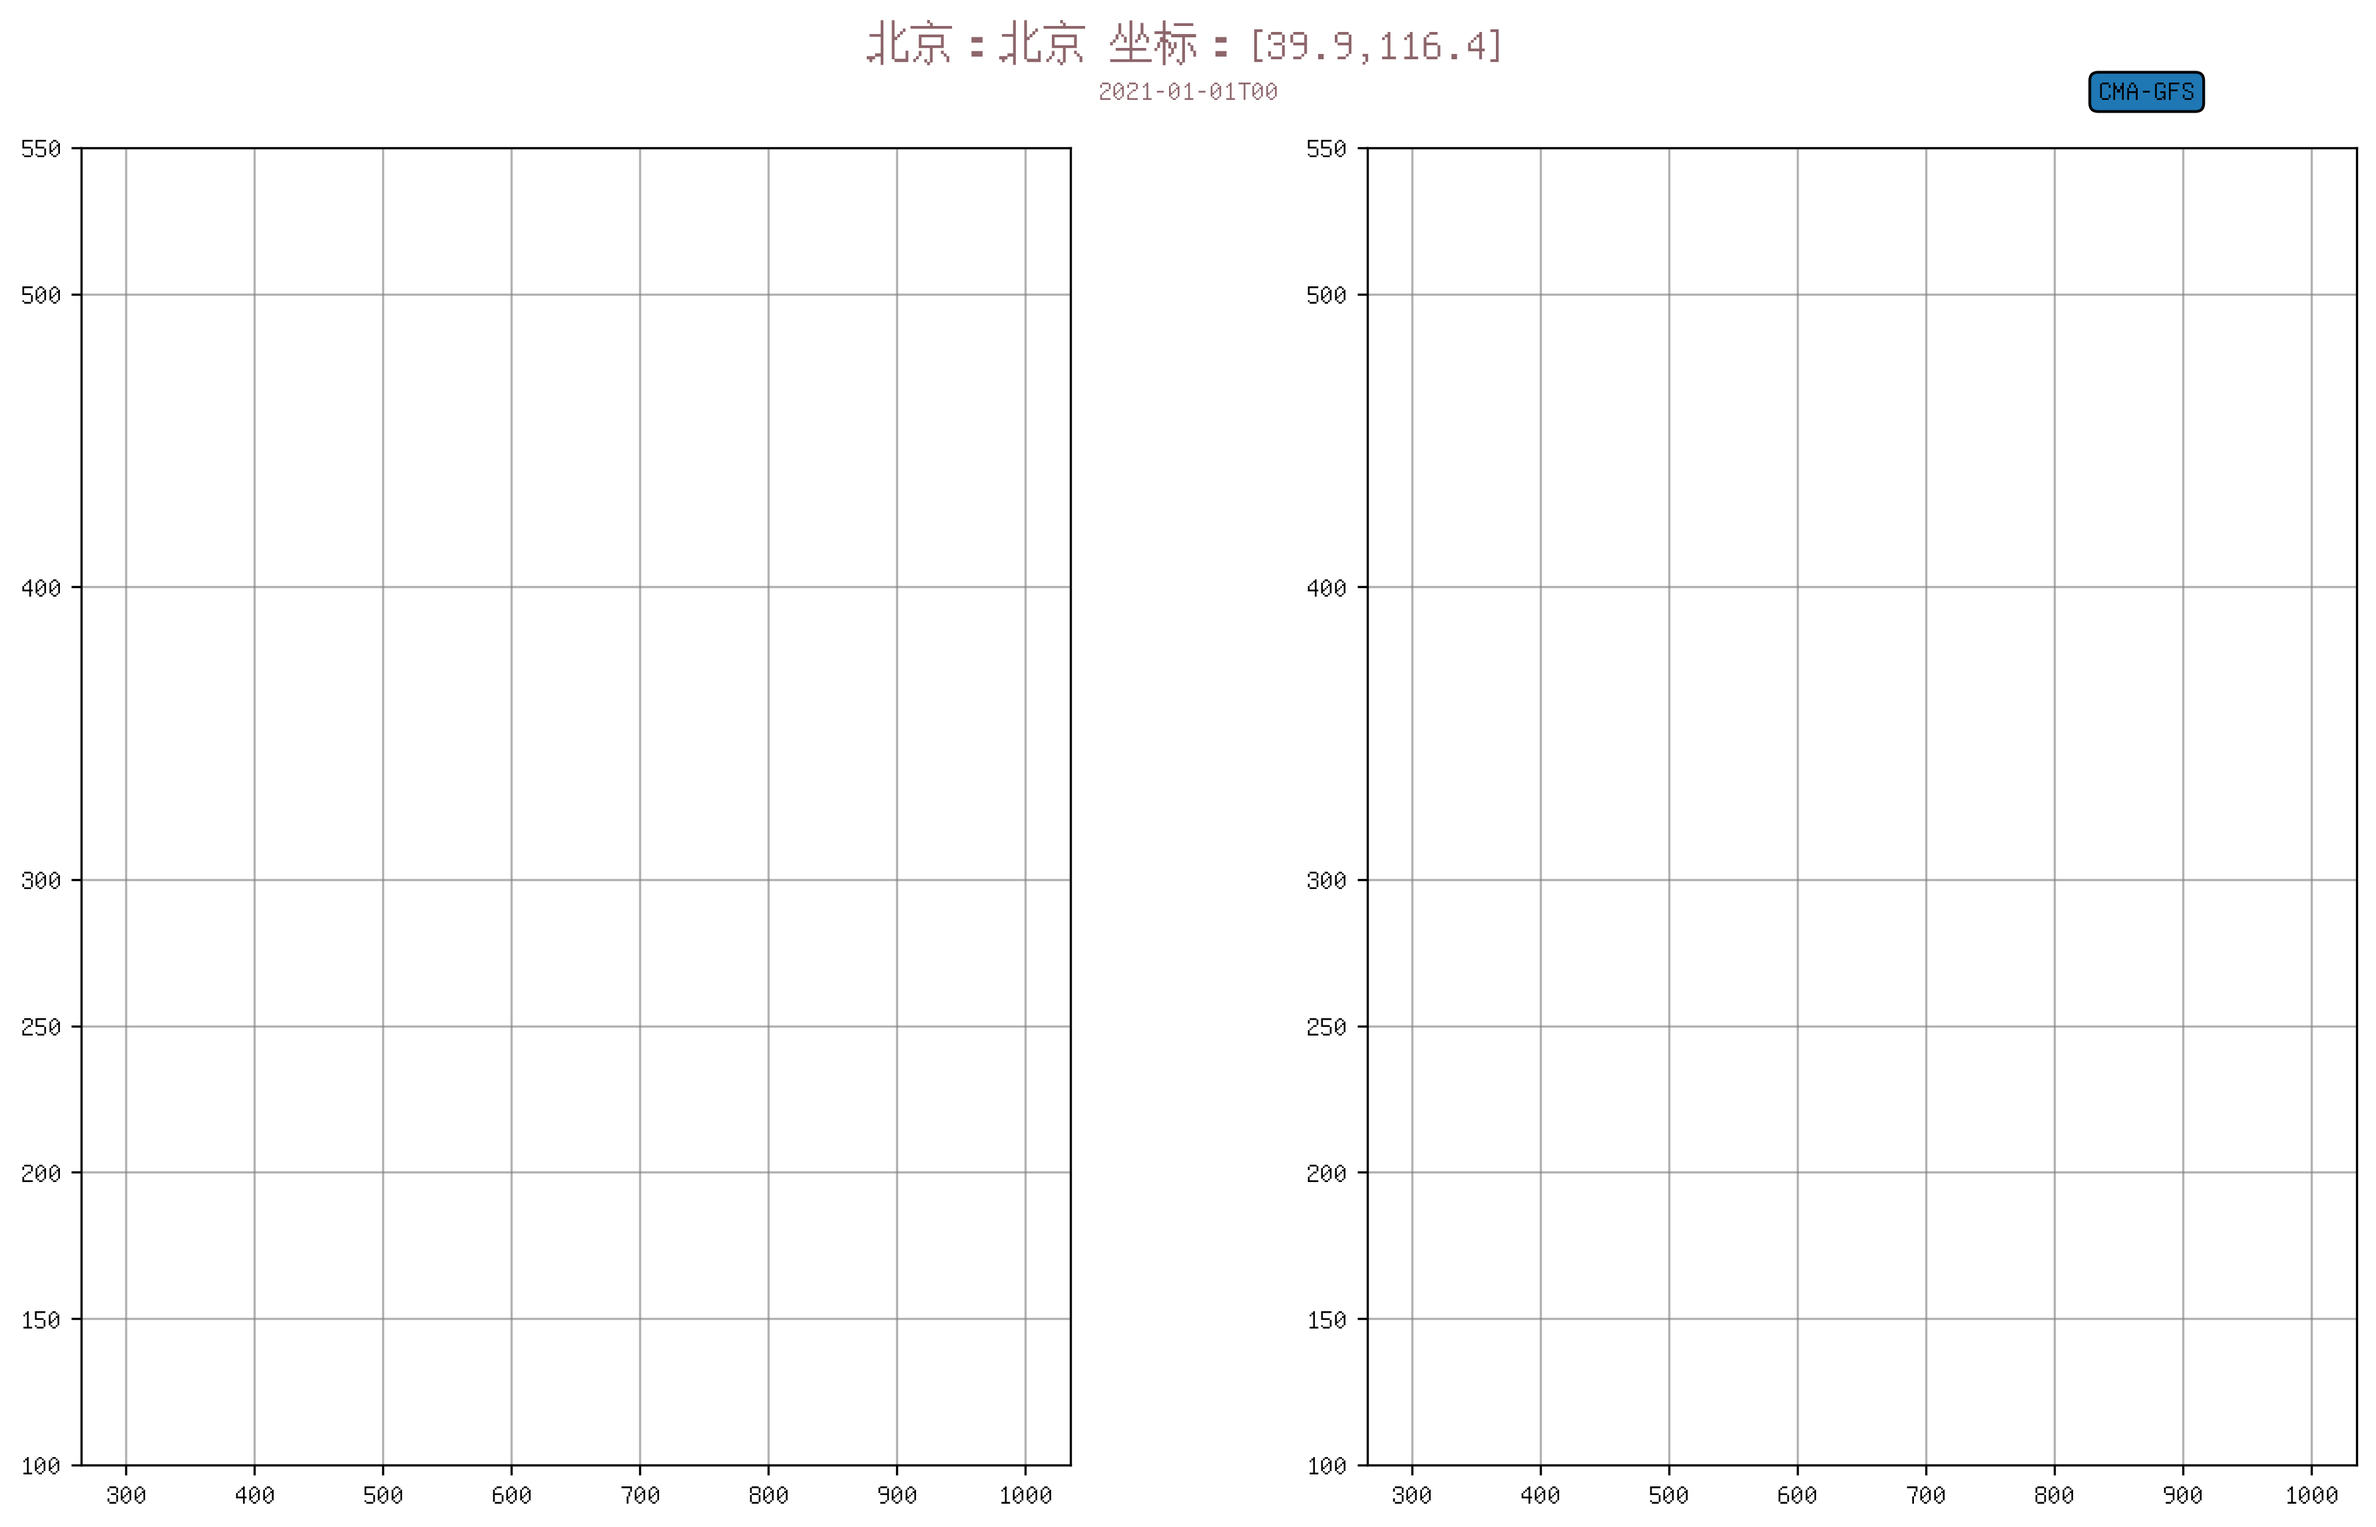
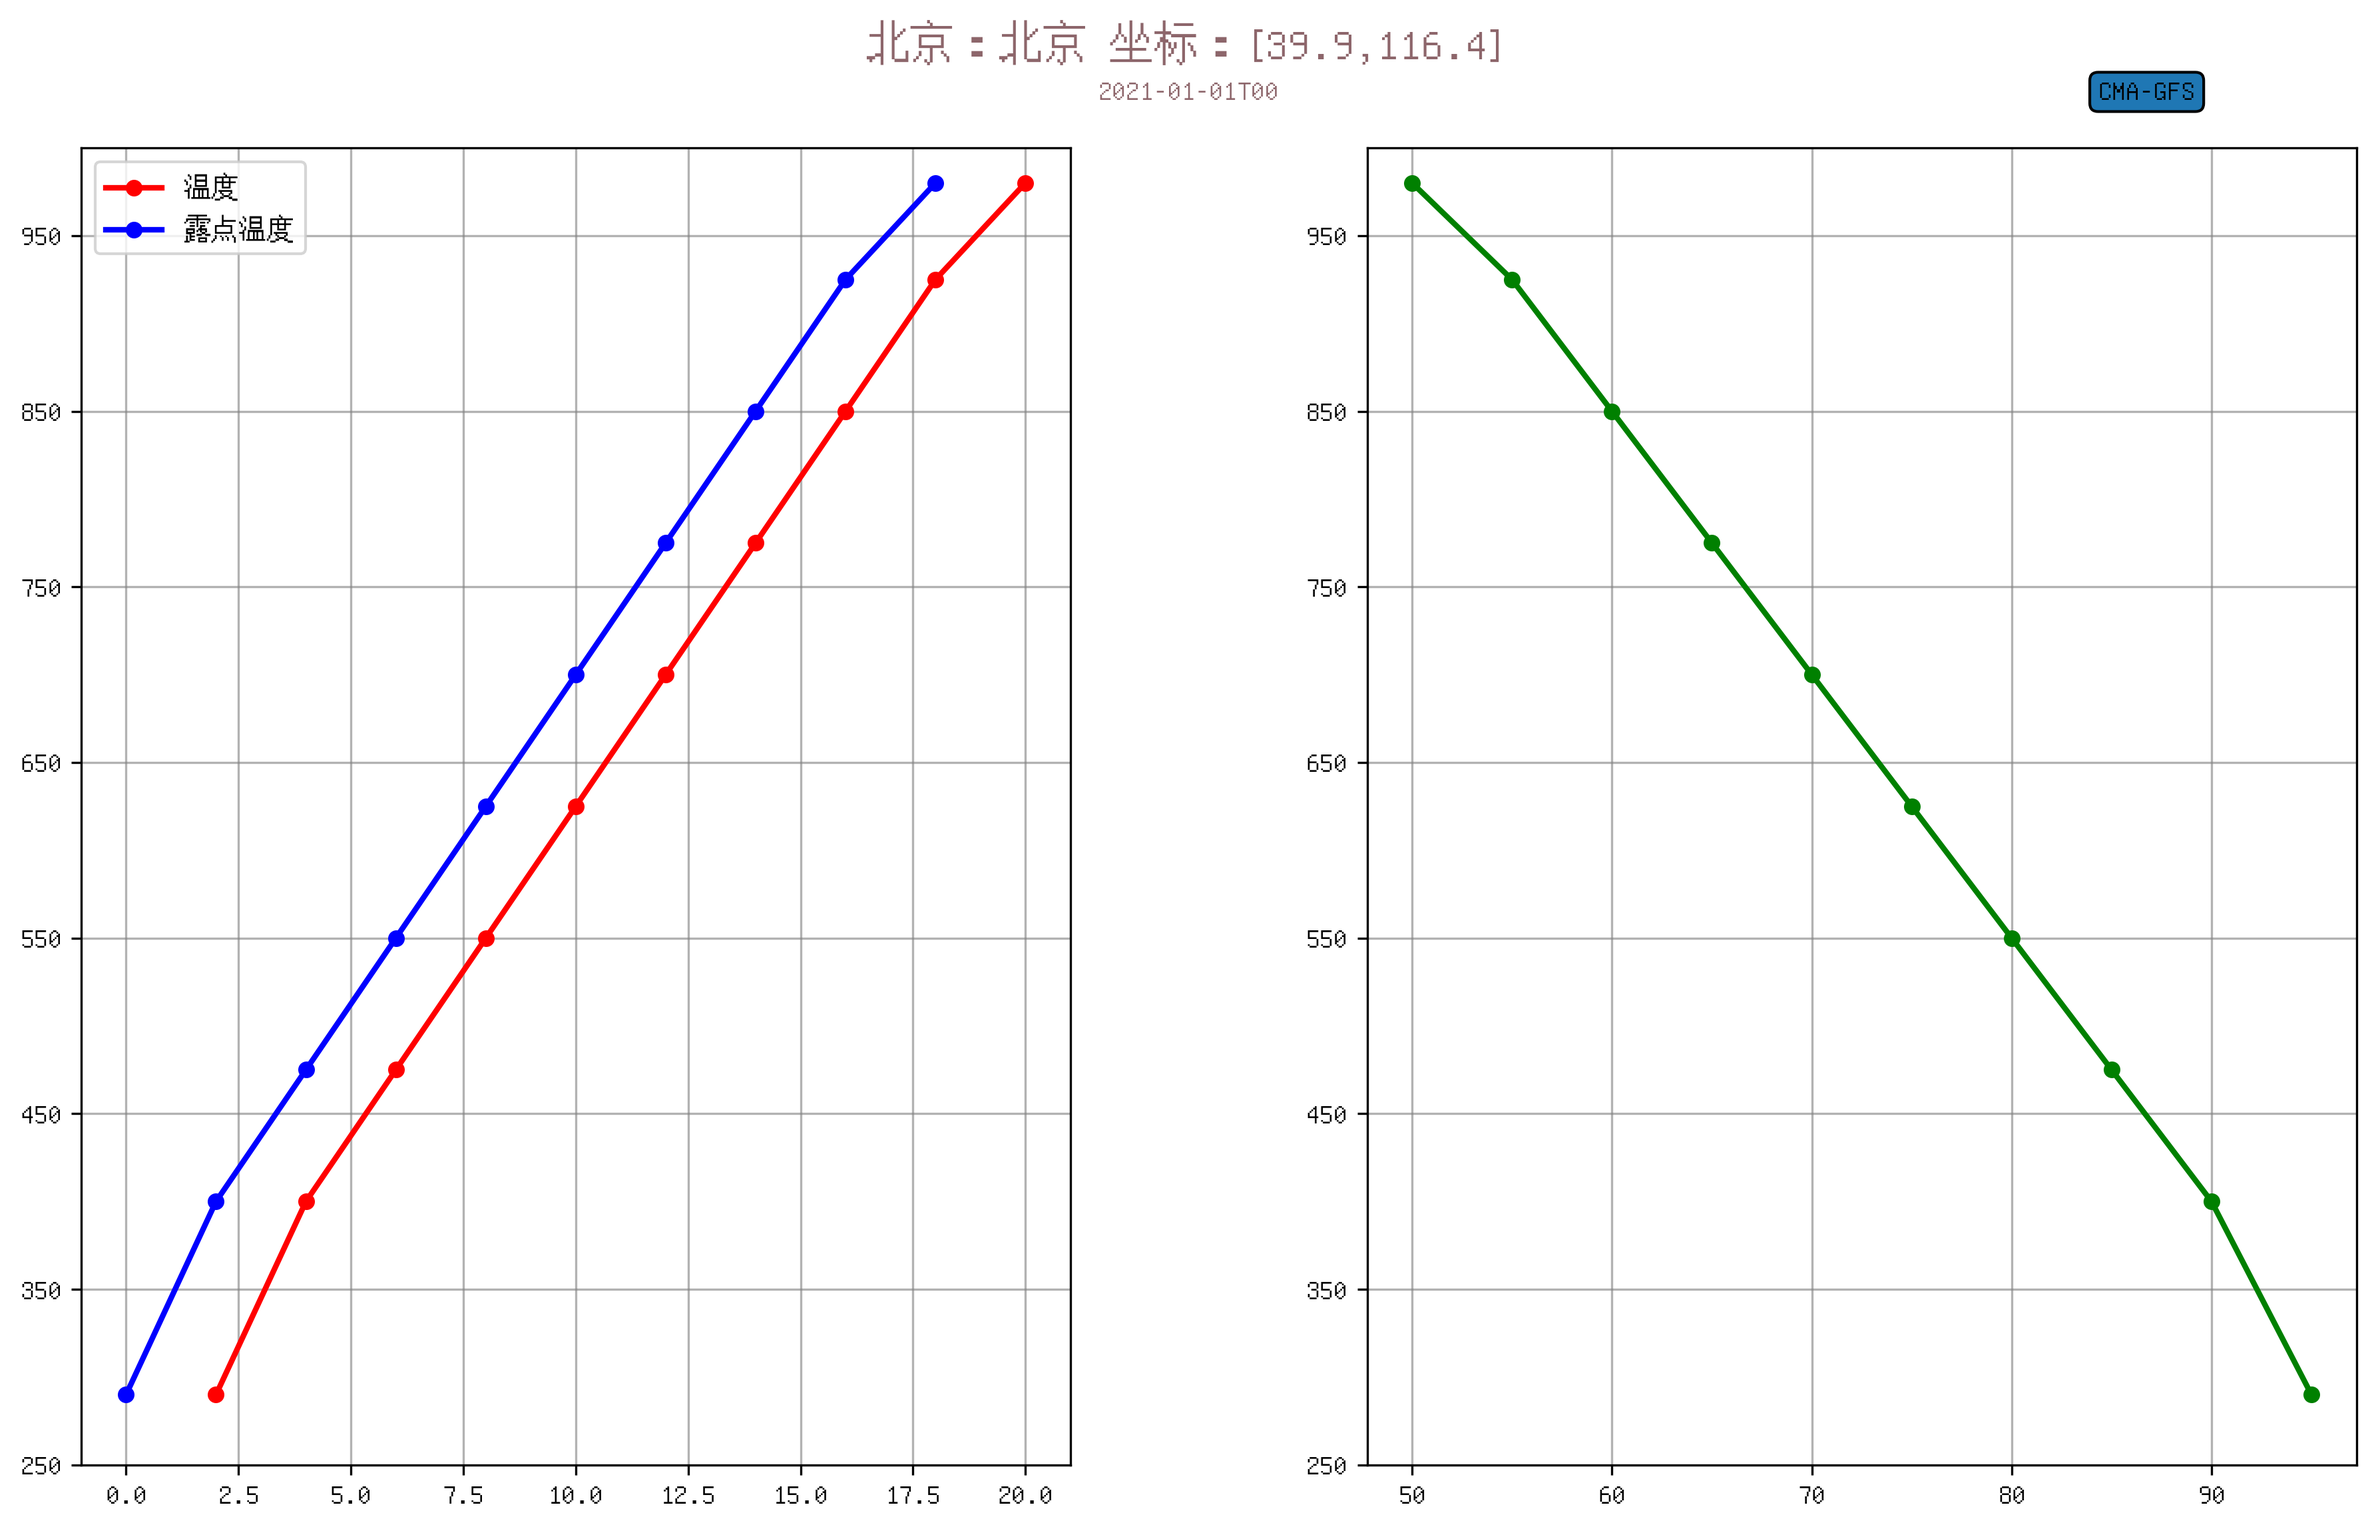
successfully show basic plot

diff --git a/plot.py b/plot.py
@@ -8,7 +8,7 @@ def init_plot():
     # 使用经过测试的中文字体，优先使用Unifont和Noto Sans CJK JP
     plt.rcParams['font.sans-serif'] = ['Unifont', 'Noto Sans CJK JP', 'DejaVu Sans']
     plt.rcParams['axes.unicode_minus'] = False
-    return plt.figure(**FIGURE_STYLE)
+    return plt.figure(figsize=FIGURE_STYLE["figsize"])
 
 def add_plot(ax, pressure: List[float], data: List[float], style: VariableStyle):
     """
@@ -20,13 +20,21 @@ def add_plot(ax, pressure: List[float], data: List[float], style: VariableStyle)
     data: List[float] - 因变量
     style: VariableStyle - 样式
     """
+    # 检查数据有效性
+    if not data or not pressure or len(data) != len(pressure):
+        print(f"Warning: Invalid data for {style.label}")
+        return
+
     for function in style.function:
         if function == "line":
-            ax.plot(pressure, data, **PLOT_STYLE["line"], color=style.color)
-        elif function == "marker":
-            ax.plot(pressure, data, **PLOT_STYLE["marker"], color=style.color)
+            # 气象探空图：x轴是数据值，y轴是气压值
+            ax.plot(data, pressure, **PLOT_STYLE["line"], color=style.color, label=style.label)
         elif function == "bar":
-            ax.bar(pressure, data, **PLOT_STYLE["bar"], color=style.color)
+            # 条形图
+            ax.bar(data, pressure, **PLOT_STYLE["bar"], color=style.color, label=style.label)
+        elif function == "wind":
+            # 风向图（待实现）
+            pass
 
 def plot_warpper(fig, pressure: List[float], subplot_index: int, subplot_count: int, ax_style: AxisStyle):
     """
@@ -41,19 +49,27 @@ def plot_warpper(fig, pressure: List[float], subplot_index: int, subplot_count: 
     Returns:
     plot_func: 子图生成函数
     """
+    min_ytick = int((min(pressure) // 50) * 50)
+    max_ytick = int(((max(pressure) + 49) // 50) * 50)
+    y_lim = [min_ytick, max_ytick]
+    y_ticks = list(range(min_ytick, max_ytick + 1, 100))
     def plot_func(variable : dict[str, List[float]]):
         ax = fig.add_subplot(1, subplot_count, subplot_index)
         ax.invert_yaxis()
-        ax.set_ylim(ax_style.y_lim)
+        ax.set_ylim(y_lim)
         ax.grid(True, which='major', linestyle=ax_style.grid_line_style, linewidth=ax_style.grid_line_width, alpha=ax_style.grid_line_alpha, color=ax_style.grid_line_color)
-        ax.set_yticks(ax_style.y_ticks)
-        ax.set_yticklabels([str(y) for y in ax_style.y_ticks])
+        ax.set_yticks(y_ticks)
+        ax.set_yticklabels([str(y) for y in y_ticks])
         ax.spines['top'].set_visible(True)
         ax.spines['right'].set_visible(True)
         ax.spines['bottom'].set_visible(True)
         ax.spines['left'].set_visible(True)
         for key, value in variable.items():
             add_plot(ax, pressure, value, PLOT_VARIABLE_STYLE[key])
+
+        if len(variable) > 1:
+            ax.legend(loc='best')
+        
         return ax
     return plot_func
 

diff --git a/style.py b/style.py
@@ -15,8 +15,6 @@ class VariableStyle(BaseModel):
     function: list[str]
 
 class AxisStyle(BaseModel):
-    y_lim : List[float] = [100, 550]
-    y_ticks : List[float] = [100, 150, 200, 250, 300, 400, 500, 550]
     grid_line_width : float = 0.8
     grid_line_color : str = "gray"
     grid_line_alpha : float = 0.6
@@ -29,20 +27,18 @@ ELEMENT_STYLE = {
 }
 
 PLOT_VARIABLE_STYLE = {
-    "temperature": VariableStyle(color="#FF0000", label="温度", function=["line", "marker"]),
-    "dewpoint": VariableStyle(color="#0000FF", label="露点温度", function=["line", "marker"]),
-    "specific_humidity": VariableStyle(color="#008000", label="比湿", function=["line", "marker"]),
+    "temperature": VariableStyle(color="#FF0000", label="温度", function=["line"]),
+    "dewpoint": VariableStyle(color="#0000FF", label="露点温度", function=["line"]),
+    "specific_humidity": VariableStyle(color="#008000", label="比湿", function=["line"]),
     "wind_speed": VariableStyle(color="#000000", label="风速", function=["bar"]),
     "wind_direction": VariableStyle(color="#000000", label="风向", function=["wind"]),
-    "relative_humidity": VariableStyle(color="#008000", label="相对湿度", function=["line", "marker"]),
+    "relative_humidity": VariableStyle(color="#008000", label="相对湿度", function=["line"]),
 }
 
 PLOT_STYLE = {
     "line":{
         "linestyle": "-",
-        "linewidth": 2
-    },
-    "marker":{
+        "linewidth": 2,
         "markersize": 5,
         "marker": "o",
     },

diff --git a/test.py b/test.py
@@ -3,7 +3,7 @@ import json
 from interface import construct_data
 # 生成若干组样例数据
 data_length = 10
-pressure = [1000, 925, 850, 775, 700, 625, 550, 475, 400, 300]
+pressure = [980, 925, 850, 775, 700, 625, 550, 475, 400, 290]
 temperature = [20, 18, 16, 14, 12, 10, 8, 6, 4, 2]
 dewpoint = [18, 16, 14, 12, 10, 8, 6, 4, 2, 0]
 relative_humidity = [50, 55, 60, 65, 70, 75, 80, 85, 90, 95]
